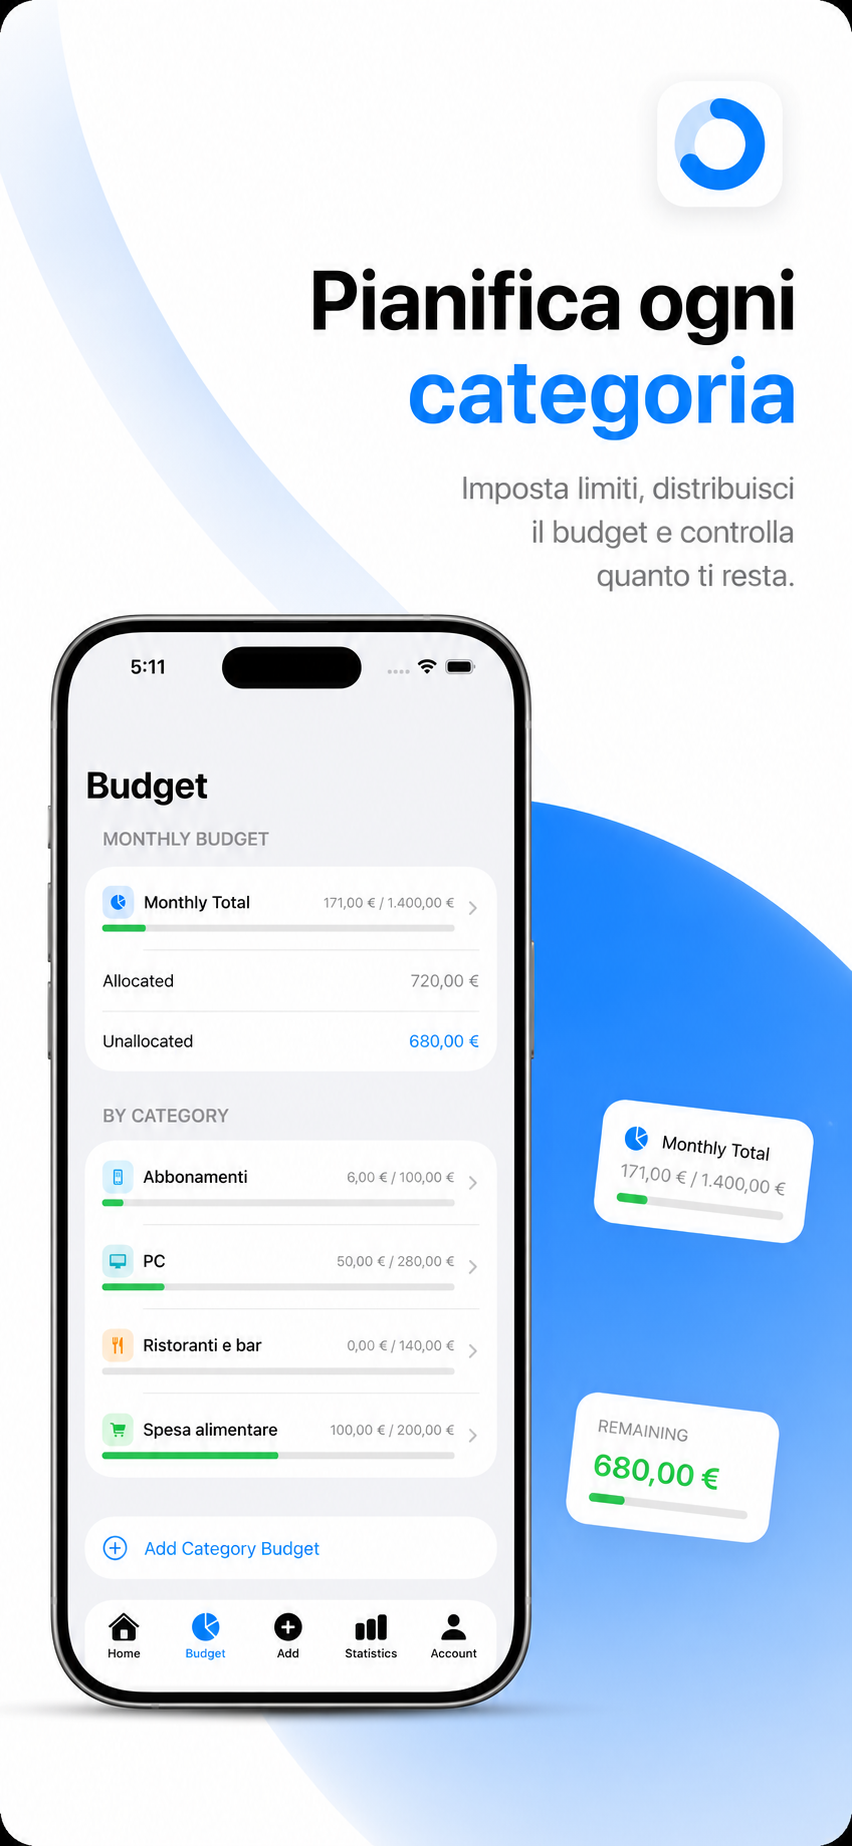
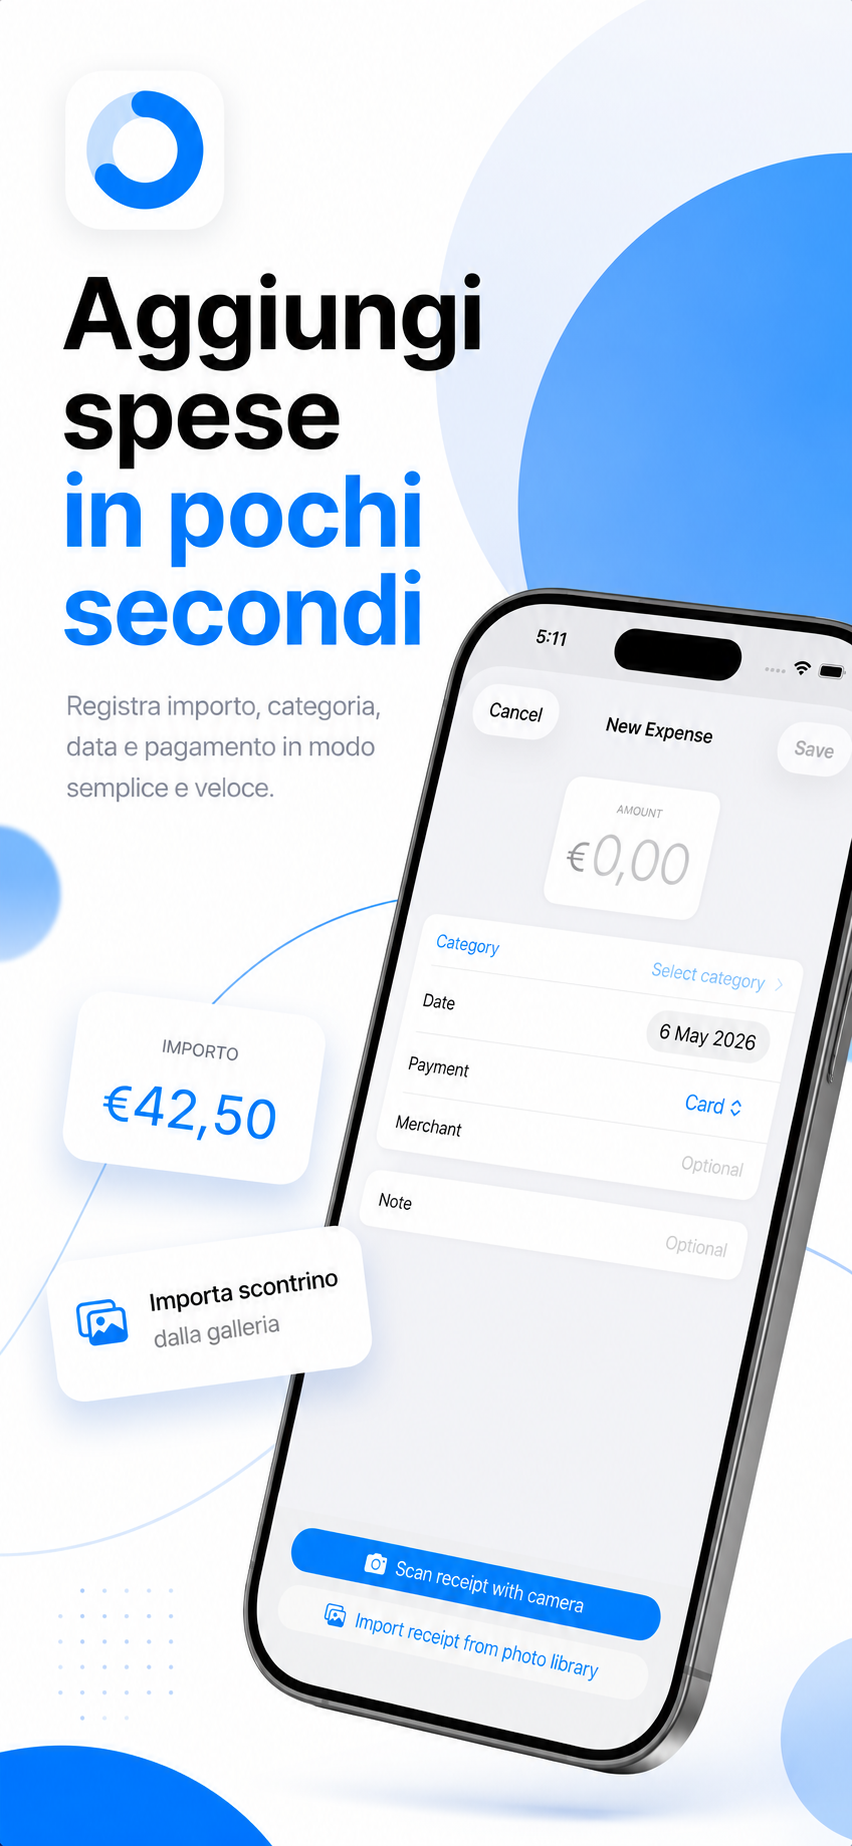
feat: iPhone frame mockup around hero screenshot

diff --git a/style.css b/style.css
@@ -162,13 +162,53 @@ nav.scrolled { box-shadow: 0 2px 20px rgba(0,0,0,0.08); }
 
 /* HERO PHONE */
 .hero-phone-wrap { display: flex; justify-content: center; padding-bottom: 0; }
-.hero-phone-frame {
+.iphone-frame {
   position: relative;
-  width: 260px;
-  filter: drop-shadow(0 48px 80px rgba(0,0,0,0.22)) drop-shadow(0 8px 24px rgba(0,122,255,0.12));
+  width: 240px;
+  background: #1a1a1a;
+  border-radius: 50px;
+  padding: 14px 10px 20px;
+  box-shadow:
+    0 0 0 1px rgba(255,255,255,0.12),
+    0 0 0 2px #3a3a3a,
+    0 48px 100px rgba(0,0,0,0.36),
+    0 12px 32px rgba(0,122,255,0.14);
   animation: float-main 4s ease-in-out infinite;
 }
-.hero-phone-img { width: 100%; height: auto; display: block; border-radius: 40px; }
+.iphone-notch {
+  position: absolute;
+  top: 14px; left: 50%; transform: translateX(-50%);
+  width: 90px; height: 26px;
+  background: #1a1a1a;
+  border-radius: 0 0 18px 18px;
+  z-index: 2;
+}
+.iphone-notch::before {
+  content: '';
+  position: absolute;
+  top: 8px; left: 50%; transform: translateX(-50%);
+  width: 10px; height: 10px;
+  background: #2a2a2a;
+  border-radius: 50%;
+  box-shadow: 0 0 0 2px rgba(255,255,255,0.06);
+}
+.iphone-screen {
+  border-radius: 38px;
+  overflow: hidden;
+  background: #000;
+  position: relative;
+}
+.iphone-screenshot {
+  width: 100%;
+  height: auto;
+  display: block;
+}
+.iphone-home-bar {
+  width: 80px; height: 4px;
+  background: rgba(255,255,255,0.3);
+  border-radius: 2px;
+  margin: 10px auto 0;
+}
 
 /* SCREENSHOTS */
 .screenshots { background: var(--bg); padding: 80px 0 0; overflow: hidden; }
@@ -273,7 +313,8 @@ footer {
   .phones-wrap { gap: 12px; }
   .phone-main { width: 160px; height: 300px; border-radius: 36px; }
   .phone-side { display: none; }
-  .hero-phone-frame { width: 200px; }
+  .iphone-frame { width: 180px; border-radius: 40px; }
+  .iphone-screen { border-radius: 30px; }
   .slides-track { padding: 32px 24px 48px; gap: 14px; }
   .slide-img { width: 160px; }
   .screenshots .section-title { padding: 0 24px; }

diff --git a/index.html b/index.html
@@ -49,10 +49,14 @@
     </div>
   </div>
 
-  <!-- Real iPhone screenshot -->
+  <!-- iPhone mockup with real screenshot -->
   <div class="hero-phone-wrap fade-up" style="transition-delay:0.4s">
-    <div class="hero-phone-frame">
-      <img src="assets/hero-screen.png" alt="Onda Budget app screenshot" class="hero-phone-img">
+    <div class="iphone-frame">
+      <div class="iphone-notch"></div>
+      <div class="iphone-screen">
+        <img src="assets/hero-screen.png" alt="Onda Budget app screenshot" class="iphone-screenshot">
+      </div>
+      <div class="iphone-home-bar"></div>
     </div>
   </div>
 </section>